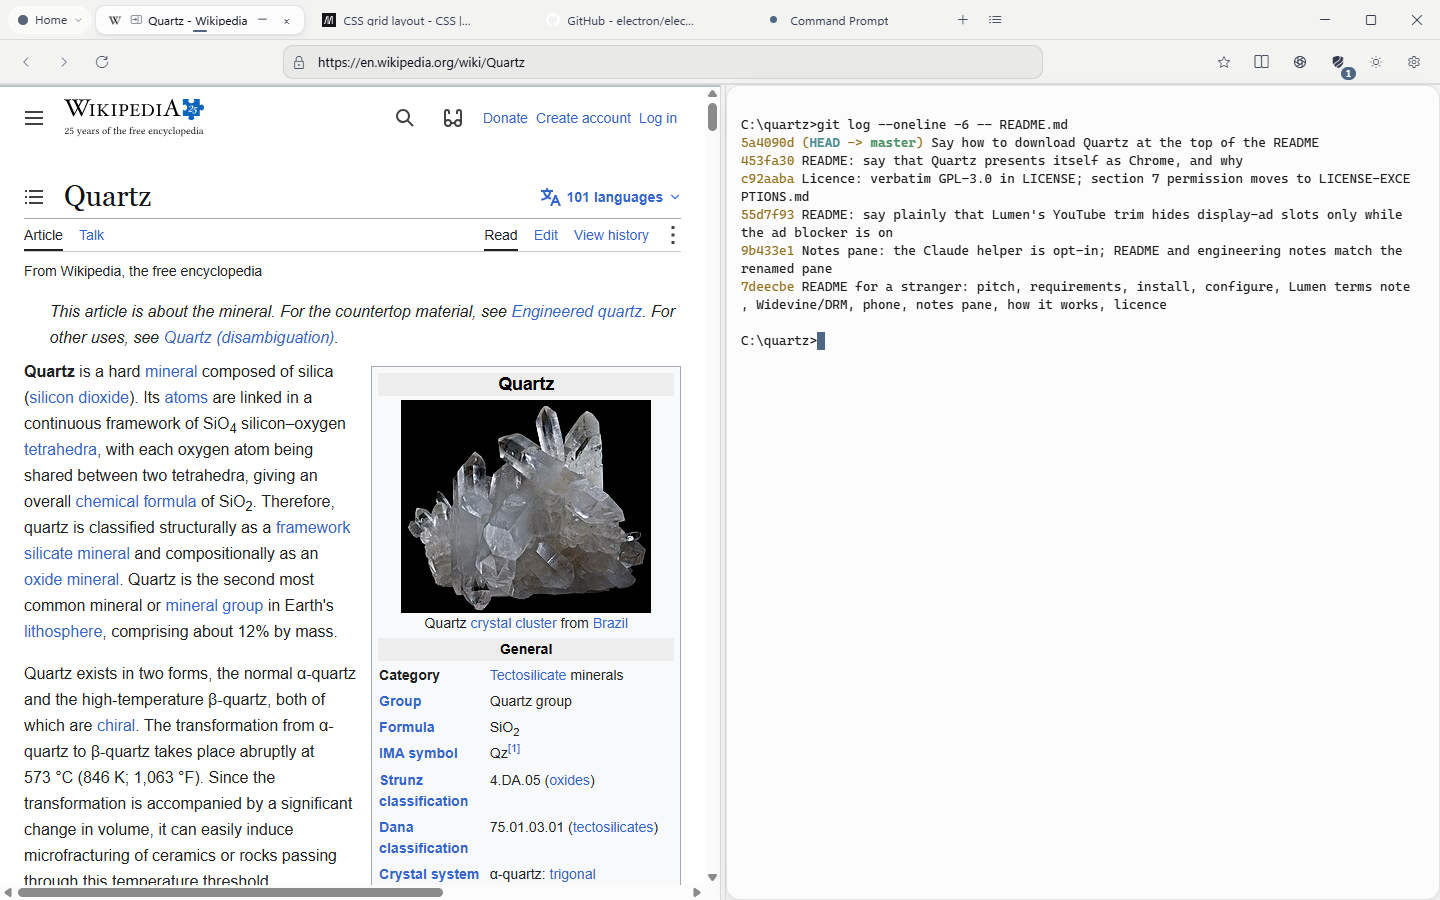
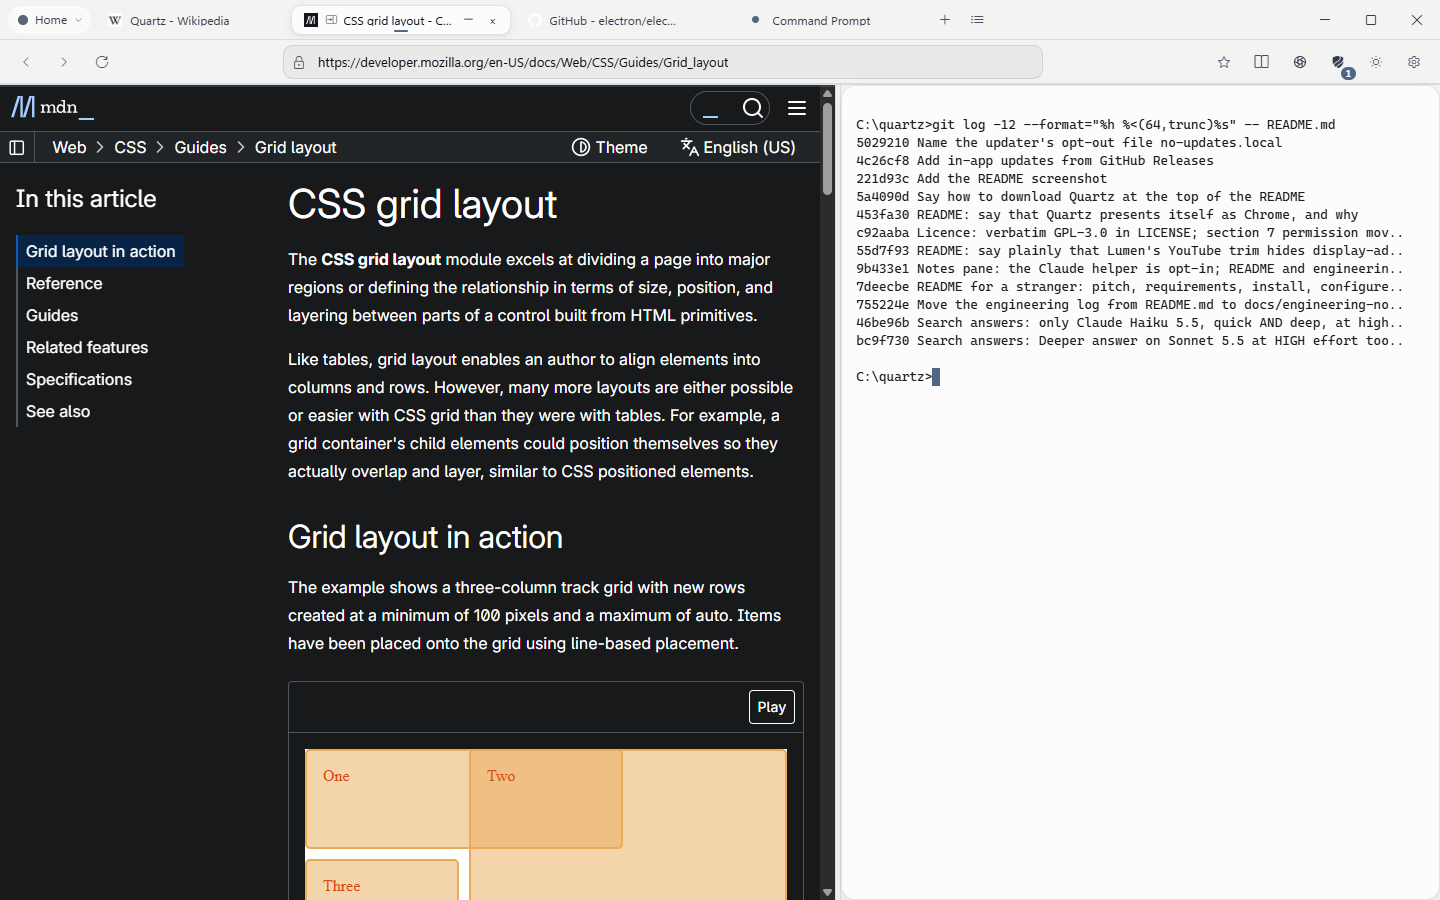
README screenshot: no wrapped terminal lines, no horizontal scrollbar
The MDN CSS grid guide on the left fits its pane, and git truncates each
subject to the terminal's width, so nothing wraps. 195 KB, down from 238 KB.
The alt text names the new left page.

diff --git a/README.md b/README.md
@@ -3,7 +3,7 @@
 A Windows desktop browser built on Electron, where web pages, Claude Code sessions, terminals,
 native Windows apps and your Android phone all live as tabs, with a streaming hub (Lumen) on top.
 
-![Quartz in its light theme: a Wikipedia article split beside a Command Prompt tab running git, with MDN and GitHub tabs open](docs/screenshot.png)
+![Quartz in its light theme: the MDN guide to CSS grid layout split beside a Command Prompt tab running git, with Wikipedia and GitHub tabs open](docs/screenshot.png)
 
 Quartz is a personal project, published so others can read it, run it and learn from it.
 It is unofficial and not affiliated with any of the services it works with (see
